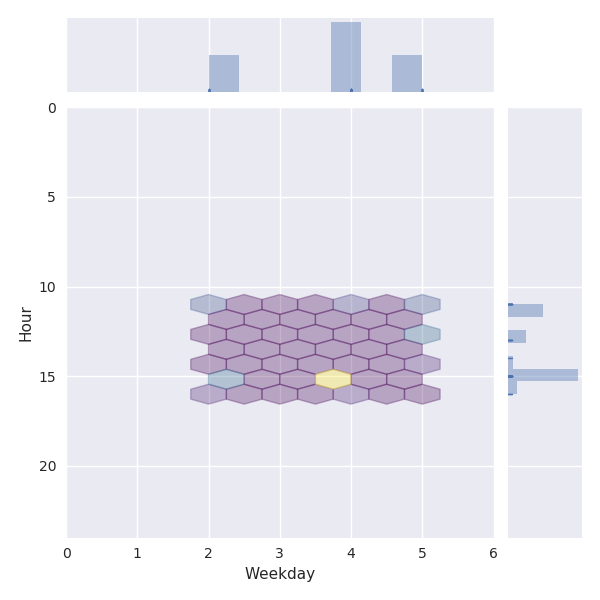
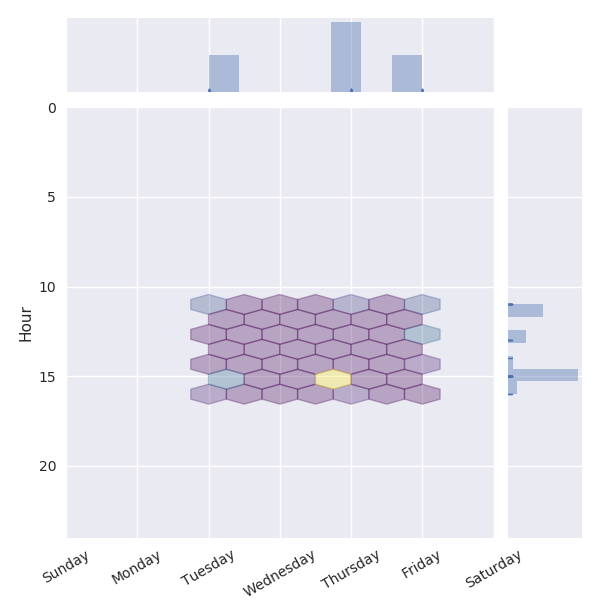
weekly plot now has weekdays

diff --git a/log/generate_report.py b/log/generate_report.py
@@ -6,6 +6,7 @@ import matplotlib.pyplot as plt
 from matplotlib.ticker import MaxNLocator
 import seaborn as sns
 from datetime import datetime as dt
+import mpld3
 
 
 def fetch_data(yr = dt.today().year, mnth = dt.today().month):
@@ -29,11 +30,22 @@ def hourly_x_weekday(df):
             kind = "hex",
             marginal_kws = dict(bins = 7, rug = True),
             joint_kws = dict(gridsize = 6))
+    weekdays = ["Sunday",
+            "Monday",
+            "Tuesday",
+            "Wednesday",
+            "Thursday",
+            "Friday",
+            "Saturday"]
+    h_x_w.ax_joint.set_xticklabels(weekdays,
+            rotation = 30)
+    #return h_x_w
     plt.figure()
 
 
 def hourly(df):
-    sns.distplot(df["Hour"]).set(xlim=(0,24))
+    hrl = sns.distplot(df["Hour"]).set(xlim=(0,24))
+    return hrl
 
 
 def top_terms(df):
@@ -45,6 +57,7 @@ def top_terms(df):
     trms.yaxis.set_major_locator(MaxNLocator(integer = True))
     trms.set_xticklabels(trms.get_xticklabels(),
             rotation = 30)
+    #return trms
     plt.figure()
 
 
